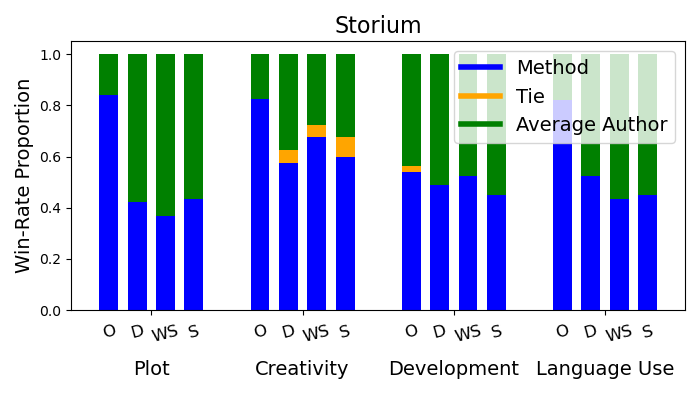
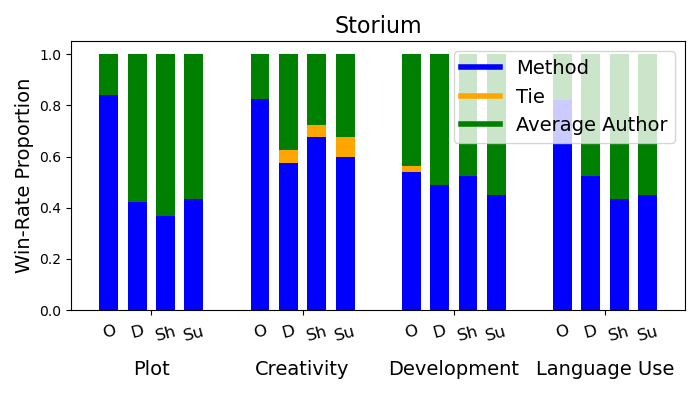
update plots

diff --git a/evaluation/consolidate_results.py b/evaluation/consolidate_results.py
@@ -106,14 +106,14 @@ def create_graph(method_source_wise_results, output_dir):
     # Specify methods to compare
     methods_to_compare = ["oracle", "delta", "delta_schema_persona", "schema_persona"]
     # define method alias
-    method_alias = {"oracle": "O", "delta_schema_persona": "WS", "schema_persona": "S", "delta": "D"}
+    method_alias = {"oracle": "O", "delta_schema_persona": "Sh", "schema_persona": "Su", "delta": "D"}
     # source alias
     source_alias = {
         "Reddit.json": "Reddit",
         "AO3.json": "AO3",
         "Storium.json": "Storium",
-        "narrativemagazine.json": "N.Magazine",
         "newyorker.json": "New Yorker",
+        "narrativemagazine.json": "Narrative Magazine",
     }
 
     save_dir = f"{output_dir}/graphs"
@@ -132,6 +132,10 @@ def create_graph(method_source_wise_results, output_dir):
         categories = list(
             next(iter(method_source_wise_results.values()))[source].keys()
         )
+        
+        # hardcode categories
+        categories = ['Plot', 'Creativity', 'Development (Character and Setting)', 'Language Use']
+
         # replace "Development (Character and Setting)" with "Development"
         categories_labels = [
             cat.replace("Development (Character and Setting)", "Development")
